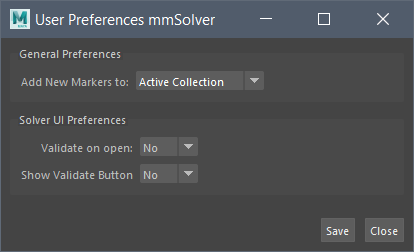
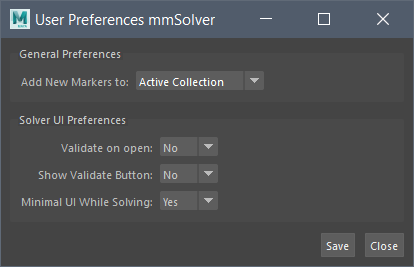
Switch to minimal Solver UI while solving - controlled by user preference.
Issue #195.

diff --git a/python/mmSolver/tools/solver/lib/collection.py b/python/mmSolver/tools/solver/lib/collection.py
@@ -31,6 +31,8 @@ import mmSolver.api as mmapi
 import mmSolver.ui.uiutils as uiutils
 import mmSolver.utils.time as utils_time
 import mmSolver.utils.converttypes as converttypes
+import mmSolver.tools.userpreferences.constant as userprefs_const
+import mmSolver.tools.userpreferences.lib as userprefs_lib
 import mmSolver.tools.solver.lib.state as lib_state
 import mmSolver.tools.solver.lib.collectionstate as col_state
 import mmSolver.tools.solver.lib.solver as solver_utils
@@ -553,6 +555,12 @@ def gather_execute_options():
     disp_node_types['imagePlane'] = image_plane_state
     disp_node_types['mesh'] = meshes_state
 
+    # Minimal UI from config file.
+    config = userprefs_lib.get_config()
+    key = userprefs_const.SOLVER_UI_MINIMAL_UI_WHILE_SOLVING_KEY
+    minimal_ui = userprefs_lib.get_value(config, key)
+    minimal_ui = minimal_ui == userprefs_const.SOLVER_UI_MINIMAL_UI_WHILE_SOLVING_TRUE_VALUE
+
     options = mmapi.createExecuteOptions(
         refresh=refresh_state,
         disable_viewport_two=disable_viewport_two_state,
@@ -560,6 +568,7 @@ def gather_execute_options():
         do_isolate=do_isolate_state,
         pre_solve_force_eval=pre_solve_force_eval,
         display_node_types=disp_node_types,
+        use_minimal_ui=minimal_ui
     )
     return options
 
@@ -789,6 +798,13 @@ def run_solve_ui(col,
             status_fn = window.setStatusLine
             info_fn = window.setSolveInfoLine
 
+        # Set a minimal window size while solving.
+        if options.use_minimal_ui is True:
+            maya.cmds.evalDeferred((
+                'import mmSolver.tools.solver.ui.solver_window;'
+                'mmSolver.tools.solver.ui.solver_window.set_minimal_ui(True)'
+            ))
+
         execute_collection(
             col,
             options=options,
@@ -801,4 +817,11 @@ def run_solve_ui(col,
         if window is not None and uiutils.isValidQtObject(window) is True:
             window.progressBar.setValue(100)
             window.progressBar.hide()
+
+        # Reset Window size.
+        if options.use_minimal_ui is True:
+            maya.cmds.evalDeferred((
+                'import mmSolver.tools.solver.ui.solver_window;'
+                'mmSolver.tools.solver.ui.solver_window.set_minimal_ui(False)'
+            ))
     return

diff --git a/python/mmSolver/tools/solver/ui/solver_window.py b/python/mmSolver/tools/solver/ui/solver_window.py
@@ -65,6 +65,7 @@ class SolverWindow(BaseWindow):
         self.setupUi(self)
         self.addSubForm(solver_layout.SolverLayout)
         self.setStatusLine(const.STATUS_READY)
+        self._saved_ui_size = QtCore.QSize()
 
         # Menu Bar
         self.addMenuBarContents(self.menubar)
@@ -744,3 +745,52 @@ def main(show=True, auto_raise=True, delete=False):
         delete=delete
     )
     return win
+
+
+def set_minimal_ui(value):
+    """
+    Change the currently open Solver window to be "minimal", or not.
+
+    If the Solver window is not open, nothing happens.
+
+    "minimal" UI means hiding most widgets in the Solver UI, and not
+    "minimal" means showing all widgets as a user normally would
+    expect.
+    """
+    assert isinstance(value, bool)
+    win = SolverWindow.get_instance()
+    if not win:
+        return
+
+    def _set_widget_visibilty(window, visible):
+        win.menubar.setVisible(visible)
+        win.subForm.collection_widget.setVisible(visible)
+        win.subForm.object_browser.setVisible(visible)
+        win.subForm.attribute_browser.setVisible(visible)
+        win.subForm.solver_settings.setVisible(visible)
+        win.subForm.ui.objectAttribute_splitter.setVisible(visible)
+        win.subForm.ui.line_1.setVisible(visible)
+        win.subForm.ui.line_2.setVisible(visible)
+        QtWidgets.QApplication.processEvents()
+
+    if uiutils.isValidQtObject(win) is True:
+        QtWidgets.QApplication.processEvents()
+
+        if value is False:
+            _set_widget_visibilty(win, True)
+
+            # Restore non-minimal window size.
+            win.resize(win._saved_ui_size)
+        else:
+            _set_widget_visibilty(win, False)
+            # Resize the bottom window edge upwards.
+            win._saved_ui_size = win.size()
+            width = win.size().width()
+            win.resize(width, 1)
+
+            # Run again to trigger the UI to resize properly.
+            _set_widget_visibilty(win, False)
+            win.resize(width, 1)
+
+    QtWidgets.QApplication.processEvents()
+    return

diff --git a/python/mmSolver/tools/userpreferences/constant.py b/python/mmSolver/tools/userpreferences/constant.py
@@ -69,11 +69,28 @@ SOLVER_UI_SHOW_VALIDATE_BTN_LABELS = [
 ]
 
 
+# "Solver UI - Minimal UI While Solving" preference.
+SOLVER_UI_MINIMAL_UI_WHILE_SOLVING_KEY = 'solver_ui/minimal_ui_while_solving'
+SOLVER_UI_MINIMAL_UI_WHILE_SOLVING_TRUE_VALUE = 1
+SOLVER_UI_MINIMAL_UI_WHILE_SOLVING_TRUE_LABEL = 'Yes'
+SOLVER_UI_MINIMAL_UI_WHILE_SOLVING_FALSE_VALUE = 0
+SOLVER_UI_MINIMAL_UI_WHILE_SOLVING_FALSE_LABEL = 'No'
+SOLVER_UI_MINIMAL_UI_WHILE_SOLVING_VALUES = [
+    SOLVER_UI_MINIMAL_UI_WHILE_SOLVING_TRUE_VALUE,
+    SOLVER_UI_MINIMAL_UI_WHILE_SOLVING_FALSE_VALUE,
+]
+SOLVER_UI_MINIMAL_UI_WHILE_SOLVING_LABELS = [
+    SOLVER_UI_MINIMAL_UI_WHILE_SOLVING_TRUE_LABEL,
+    SOLVER_UI_MINIMAL_UI_WHILE_SOLVING_FALSE_LABEL,
+]
+
+
 # Key to Values mapping.
 VALUES_MAP = {
     REG_EVNT_ADD_NEW_MKR_TO_KEY: REG_EVNT_ADD_NEW_MKR_TO_VALUES,
     SOLVER_UI_VALIDATE_ON_OPEN_KEY: SOLVER_UI_VALIDATE_ON_OPEN_VALUES,
     SOLVER_UI_SHOW_VALIDATE_BTN_KEY: SOLVER_UI_SHOW_VALIDATE_BTN_VALUES,
+    SOLVER_UI_MINIMAL_UI_WHILE_SOLVING_KEY: SOLVER_UI_MINIMAL_UI_WHILE_SOLVING_VALUES,
 }
 
 
@@ -82,6 +99,7 @@ LABELS_MAP = {
     REG_EVNT_ADD_NEW_MKR_TO_KEY: REG_EVNT_ADD_NEW_MKR_TO_LABELS,
     SOLVER_UI_VALIDATE_ON_OPEN_KEY: SOLVER_UI_VALIDATE_ON_OPEN_LABELS,
     SOLVER_UI_SHOW_VALIDATE_BTN_KEY: SOLVER_UI_SHOW_VALIDATE_BTN_LABELS,
+    SOLVER_UI_MINIMAL_UI_WHILE_SOLVING_KEY: SOLVER_UI_MINIMAL_UI_WHILE_SOLVING_LABELS,
 }
 
 
@@ -90,6 +108,7 @@ DEFAULT_VALUE_MAP = {
     REG_EVNT_ADD_NEW_MKR_TO_KEY: REG_EVNT_ADD_NEW_MKR_TO_ACTIVE_COL_VALUE,
     SOLVER_UI_VALIDATE_ON_OPEN_KEY: SOLVER_UI_VALIDATE_ON_OPEN_FALSE_VALUE,
     SOLVER_UI_SHOW_VALIDATE_BTN_KEY: SOLVER_UI_SHOW_VALIDATE_BTN_FALSE_VALUE,
+    SOLVER_UI_MINIMAL_UI_WHILE_SOLVING_KEY: SOLVER_UI_MINIMAL_UI_WHILE_SOLVING_TRUE_VALUE,
 }
 
 # A list of all the valid keys in the user preferences file.

diff --git a/python/mmSolver/_api/execute.py b/python/mmSolver/_api/execute.py
@@ -56,7 +56,8 @@ ExecuteOptions = collections.namedtuple(
      'pre_solve_force_eval',
      'do_isolate',
      'display_grid',
-     'display_node_types')
+     'display_node_types',
+     'use_minimal_ui')
 )
 
 
@@ -67,7 +68,8 @@ def createExecuteOptions(verbose=False,
                          do_isolate=False,
                          pre_solve_force_eval=True,
                          display_grid=True,
-                         display_node_types=None):
+                         display_node_types=None,
+                         use_minimal_ui=None):
     """
     Create :py:class:`ExecuteOptions` object.
 
@@ -107,9 +109,15 @@ def createExecuteOptions(verbose=False,
                                during solving. If an argument is not
                                given or is None, the object type
                                visibility will not be changed.
+
+    :param use_minimal_ui: Change the Solver UI to be "minimal", the
+                           revert after a solve completes (or fails).
+    :type use_minimal_ui: bool
     """
     if display_node_types is None:
         display_node_types = dict()
+    if use_minimal_ui is None:
+        use_minimal_ui = False
     options = ExecuteOptions(
         verbose=verbose,
         refresh=refresh,
@@ -118,7 +126,8 @@ def createExecuteOptions(verbose=False,
         do_isolate=do_isolate,
         pre_solve_force_eval=pre_solve_force_eval,
         display_grid=display_grid,
-        display_node_types=display_node_types
+        display_node_types=display_node_types,
+        use_minimal_ui=use_minimal_ui
     )
     return options
 

diff --git a/python/mmSolver/tools/userprefswindow/ui/pref_layout.py b/python/mmSolver/tools/userprefswindow/ui/pref_layout.py
@@ -50,6 +50,7 @@ class PrefLayout(QtWidgets.QWidget, ui_pref_layout.Ui_Form):
         self.updateAddNewMarkersToWidget(config)
         self.updateSolverUIValidateOnOpenWidget(config)
         self.updateSolverUIShowValidateButtonWidget(config)
+        self.updateSolverUIMinimalUIWhileSolvingWidget(config)
         return
 
     def updateAddNewMarkersToWidget(self, config):
@@ -100,5 +101,22 @@ class PrefLayout(QtWidgets.QWidget, ui_pref_layout.Ui_Form):
     def getSolverUIShowValidateButtonConfigValue(self):
         key = pref_const.SOLVER_UI_SHOW_VALIDATE_BTN_KEY
         label = self.showValidateButtonComboBox.currentText()
+        value = userprefs_lib.get_value_from_label(key, label)
+        return value
+
+    def updateSolverUIMinimalUIWhileSolvingWidget(self, config):
+        key = pref_const.SOLVER_UI_MINIMAL_UI_WHILE_SOLVING_KEY
+        value = userprefs_lib.get_value(config, key)
+        label = userprefs_lib.get_label_from_value(key, value)
+        assert isinstance(label, basestring)
+        labels = userprefs_lib.get_labels(key)
+        self.minimalUIWhileSolvingComboBox.clear()
+        self.minimalUIWhileSolvingComboBox.addItems(labels)
+        self.minimalUIWhileSolvingComboBox.setCurrentText(label)
+        return
+
+    def getSolverUIMinimalUIWhileSolvingConfigValue(self):
+        key = pref_const.SOLVER_UI_MINIMAL_UI_WHILE_SOLVING_KEY
+        label = self.minimalUIWhileSolvingComboBox.currentText()
         value = userprefs_lib.get_value_from_label(key, label)
         return value

diff --git a/python/mmSolver/tools/userprefswindow/ui/pref_window.py b/python/mmSolver/tools/userprefswindow/ui/pref_window.py
@@ -74,6 +74,8 @@ class PrefWindow(BaseWindow):
              self.subForm.getSolverUIValidateOnOpenConfigValue),
             (pref_const.SOLVER_UI_SHOW_VALIDATE_BTN_KEY,
              self.subForm.getSolverUIShowValidateButtonConfigValue),
+            (pref_const.SOLVER_UI_MINIMAL_UI_WHILE_SOLVING_KEY,
+             self.subForm.getSolverUIMinimalUIWhileSolvingConfigValue),
         ]
         for key, func in options:
             value = func()

diff --git a/docs/source/tools_generaltools.rst b/docs/source/tools_generaltools.rst
@@ -600,6 +600,13 @@ general functions behave, by default.
        :ref:`Solver UI <solver-ui-ref>`? Regardless of this option,
        Validation will automatically be run when clicking the *Solve* button.
 
+   * - Minimal UI While Solving
+     - *Yes* or *No*
+     - If *Yes*, the :ref:`Solver UI <solver-ui-ref>` will only display
+       the progress bar while solving, and then switch back to the full
+       UI solving has finished. If *No*, the :ref:`Solver UI <solver-ui-ref>`
+       will not be adjusted.
+
 Usage:
 
 1) Open 'User Preferences' window.
